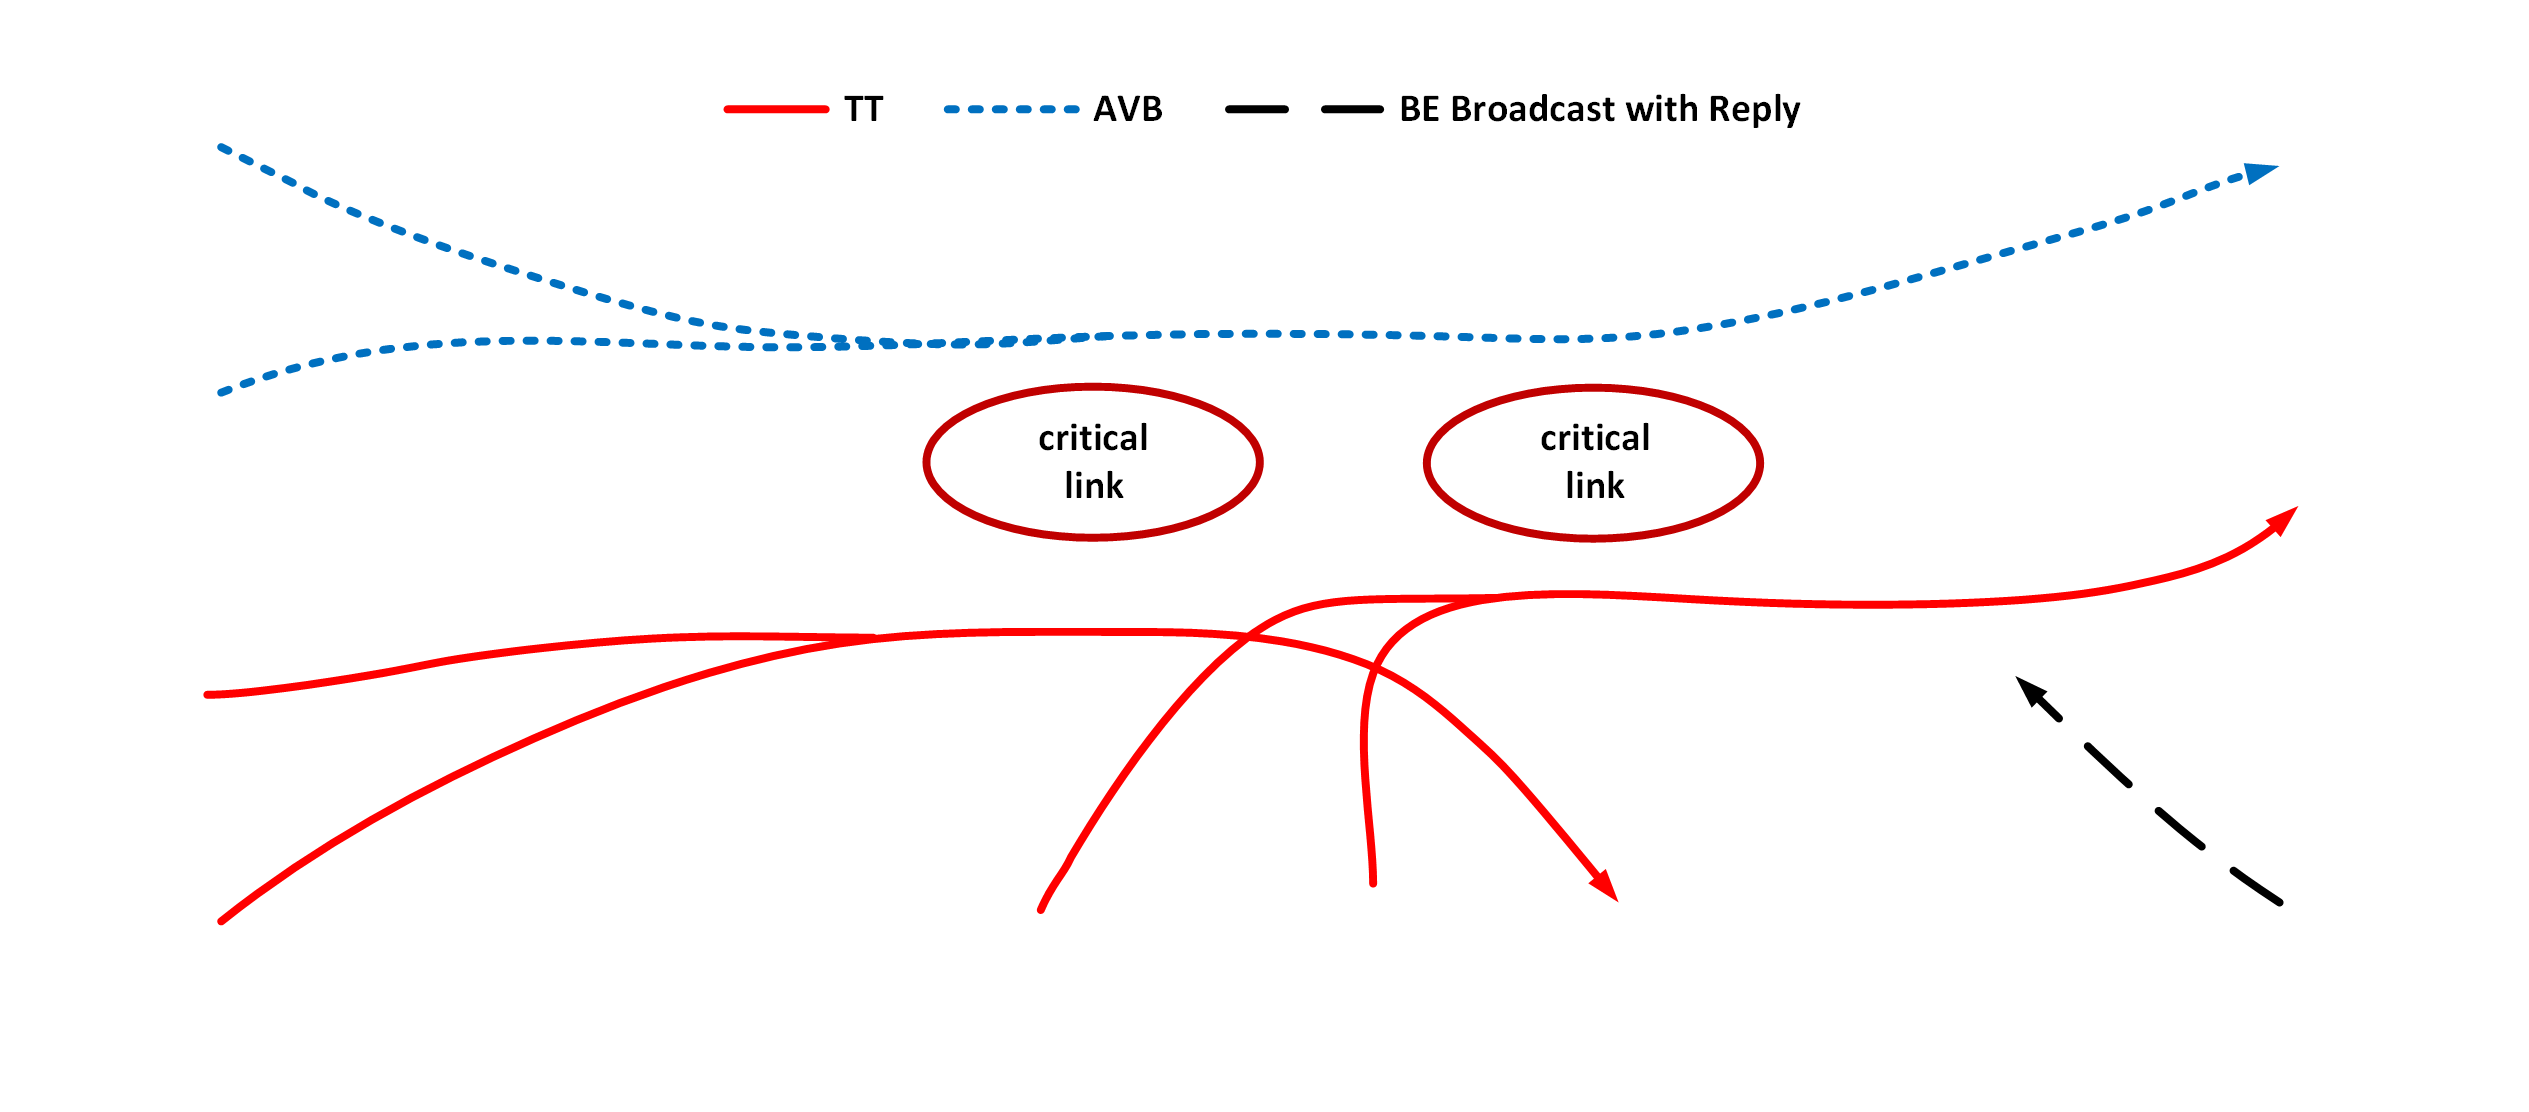
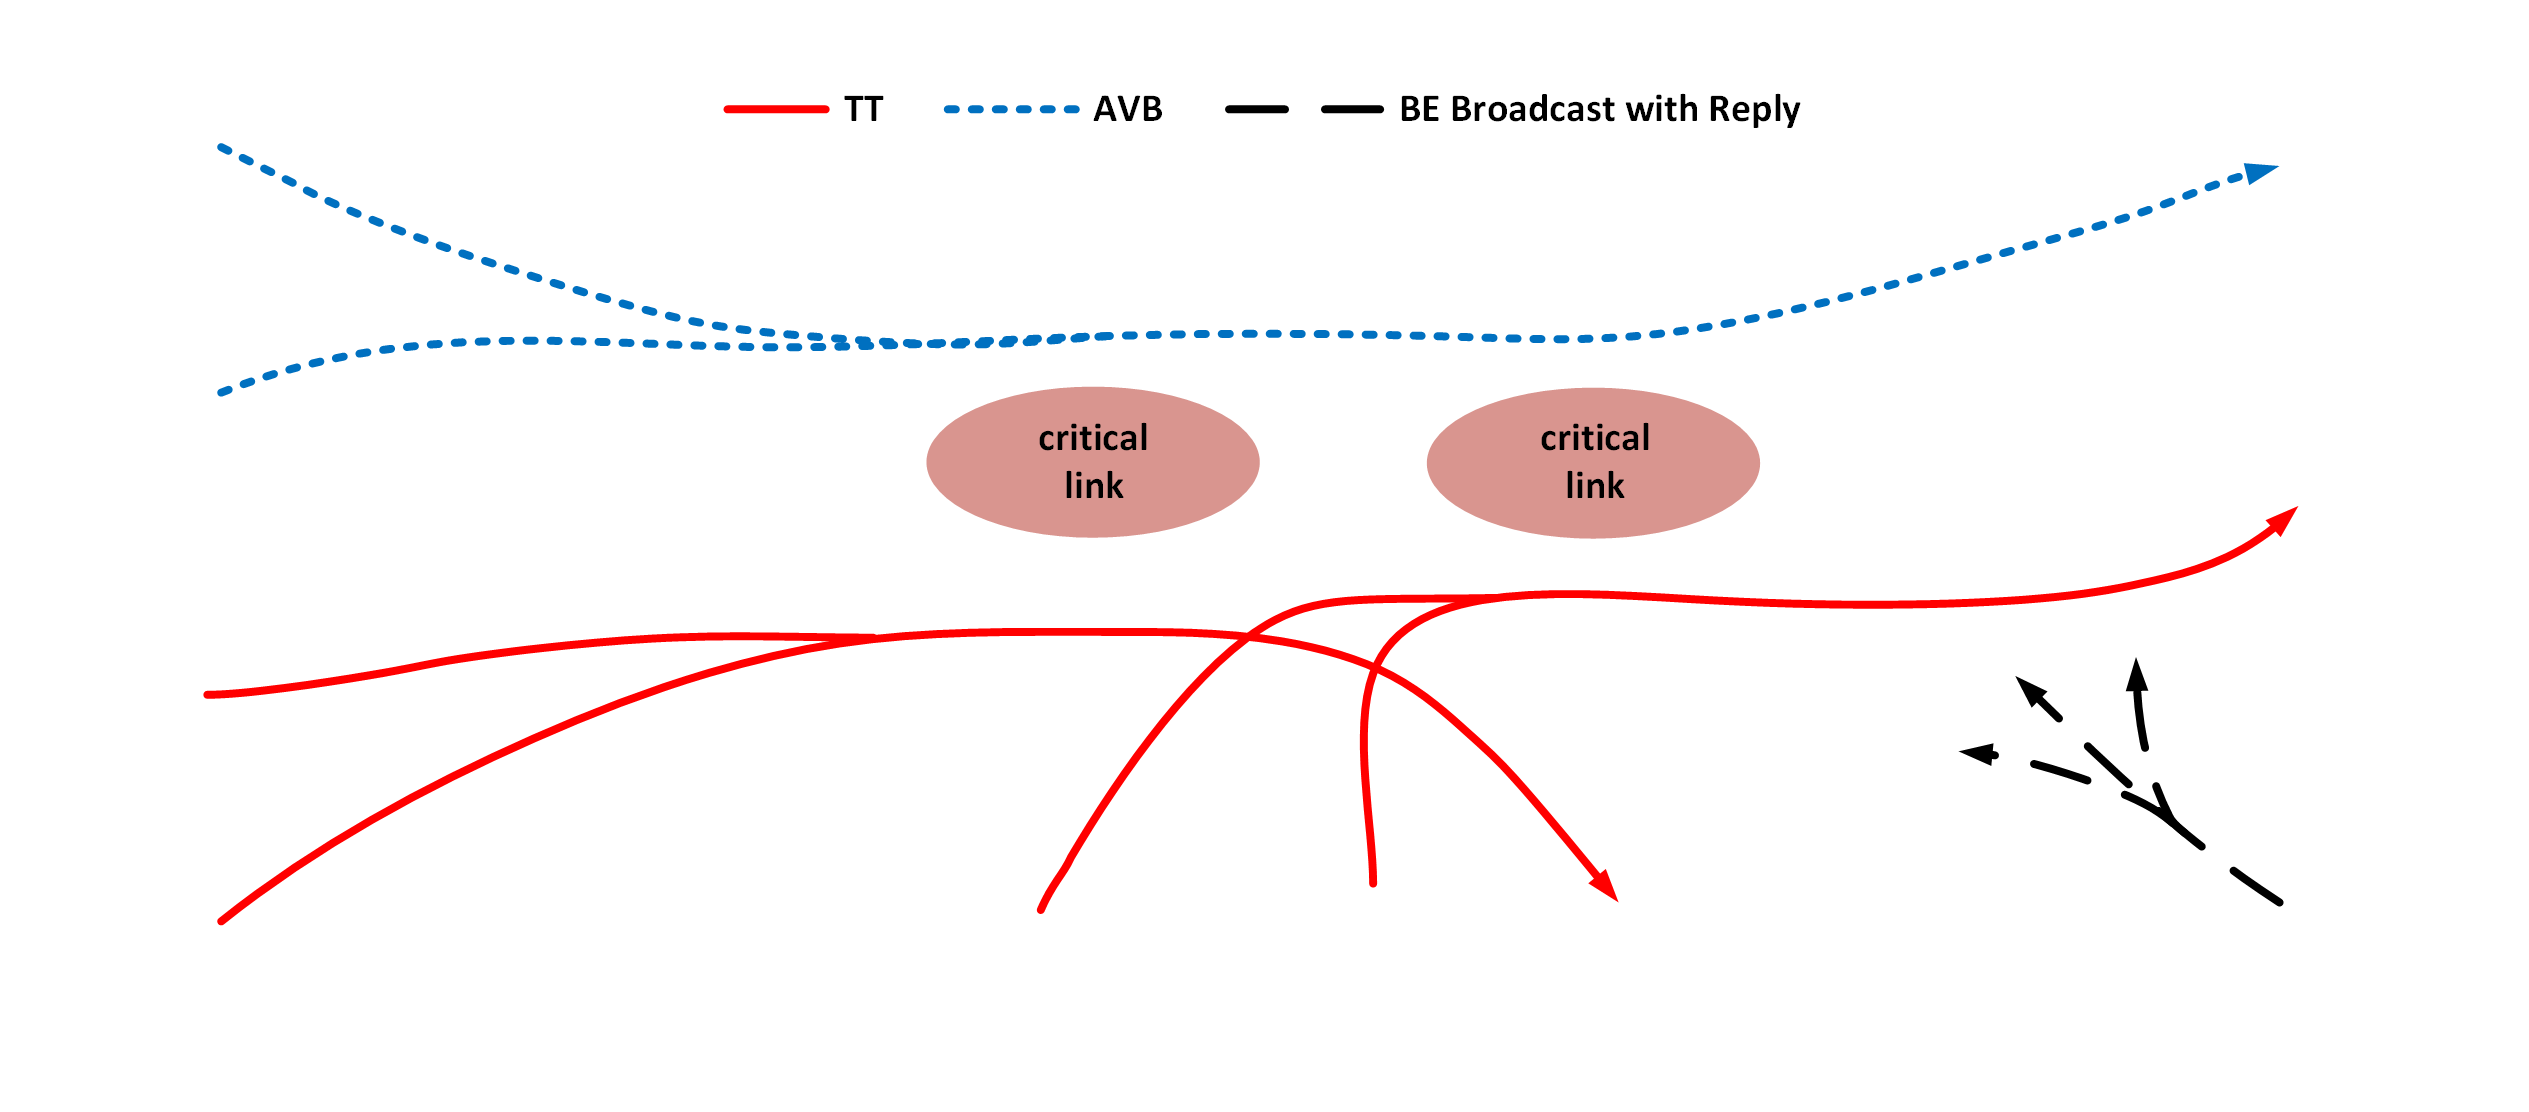
bg taffic black fix. avb_as6802 large_network background fix.

diff --git a/src/applications/trafficsink/base/CoRE4INET_BGTrafficSinkApp.cc b/src/applications/trafficsink/base/CoRE4INET_BGTrafficSinkApp.cc
@@ -45,7 +45,7 @@ void BGTrafficSinkApp::handleMessage(cMessage *msg)
         if (address.isUnspecified() || frame->getSrc() == address)
         {
             if((!received && par("replyFirst").boolValue()) || par("reply").boolValue()){
-                inet::EtherFrame *reply = new inet::EthernetIIFrame("Reply");
+                inet::EtherFrame *reply = new inet::EthernetIIFrame("Reply",7);
                 reply->setDest(frame->getSrc());
                 reply->setByteLength(frame->getByteLength());
                 for (std::list<BGBuffer*>::const_iterator buf = bgbuffers.begin();
